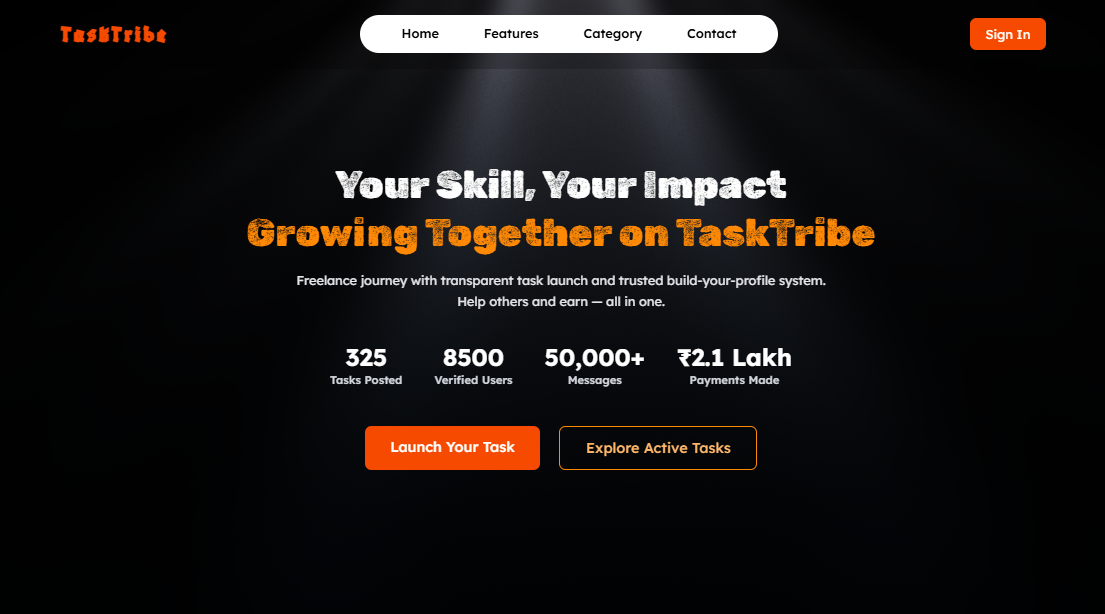
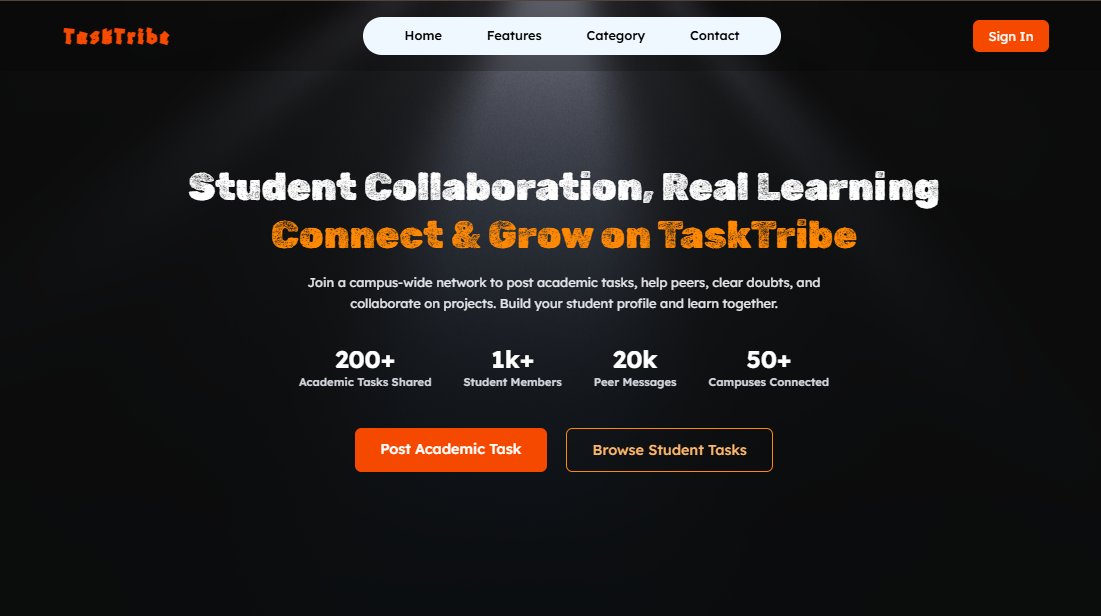
update project description and image

diff --git a/src/Constant/projectData.js b/src/Constant/projectData.js
@@ -18,7 +18,7 @@ const project = [
   {
     name: "TaskTribe",
     description:
-      "TaskTribe is a collaborative task marketplace where anyone can post tasks, find help, and get work done efficiently",
+      "TaskTribe is a collaborative platform where students can post tasks, find help, and get work done efficiently",
     technologies: ["React.js", "Node.js", "MongoDB"],
     image: tasktribe,
     liveDemo: "https://tasktribe-plum.vercel.app/",
